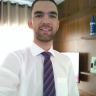
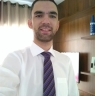
Teste de Imagens Novas

diff --git a/index.html b/index.html
@@ -30,7 +30,7 @@
                 </li>
 
                 <li class="colaborador" id="Almir" data-name="Almir">
-                    <img src="./src/imagens/Almir.png" alt="Almir">
+                    <img src="./src/imagens/Texto_do_seu_parágrafo__1_-removebg-preview.png" alt="Almir">
                 </li>
 
                 <li class="colaborador" id="Anderson Porto" data-name="Anderson Porto">
